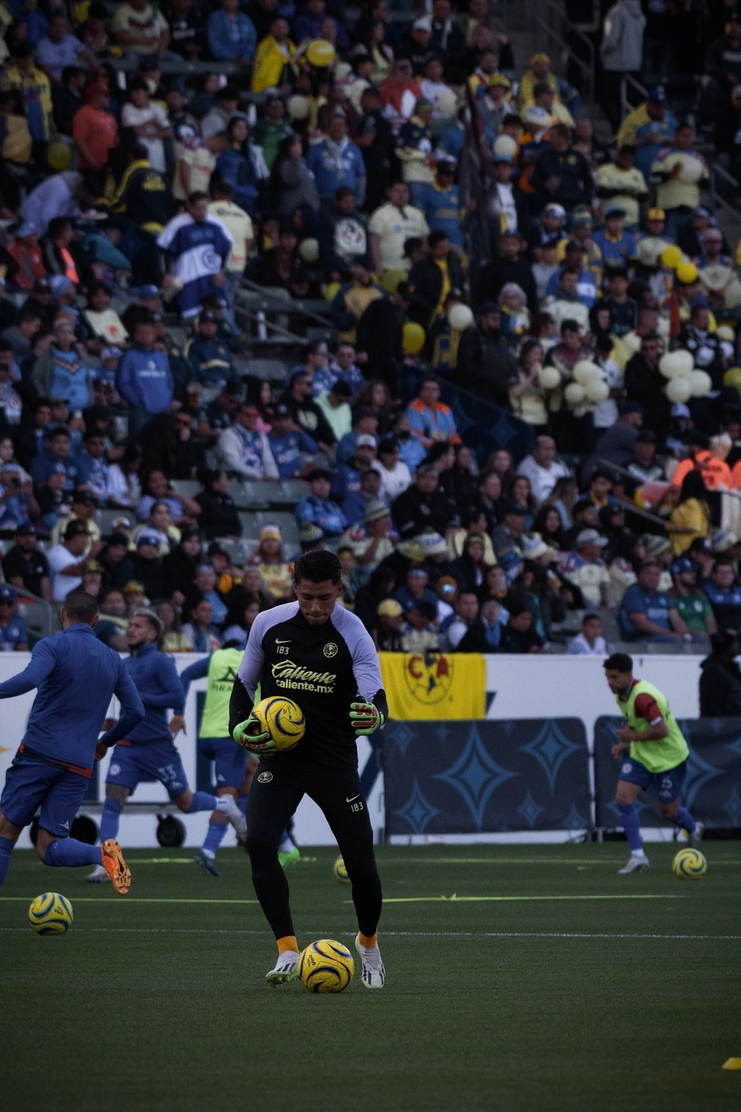
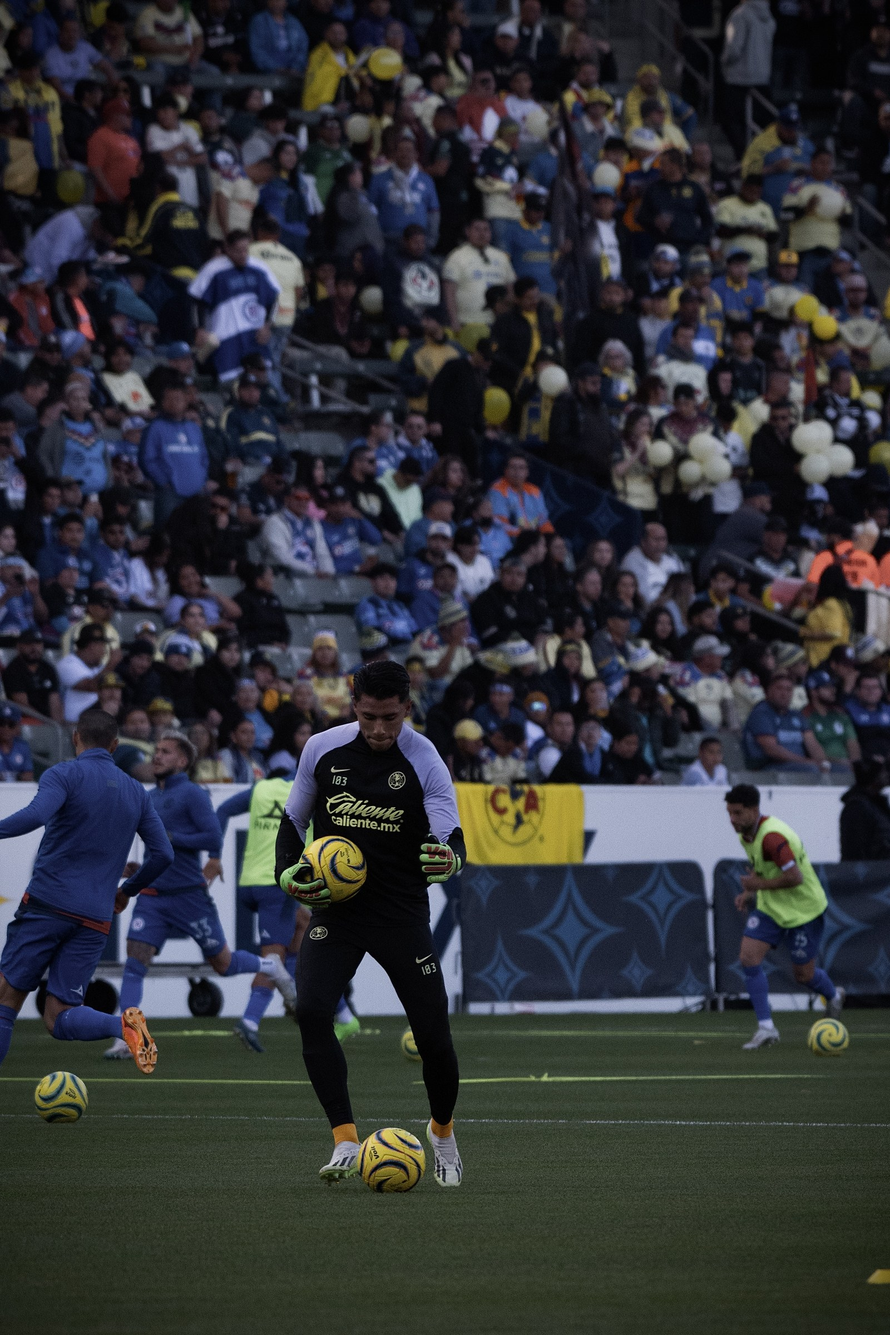
Subir la calidad de las fotos: versiones en alta resolución
Encontré los originales sin comprimir de varias fotos ya usadas
(los archivos que WhatsApp comprime al mandarlos por chat) y
reemplacé las versiones borrosas por esas:

- Fondo del hero: ahora es una foto nítida de un portero en acción
  (antes era una captura de video de baja resolución, se veía
  pixeleada al estirarse a todo el ancho de pantalla).
- Equipo de porteros, calentamiento y concentración: mismas fotos
  pero en su resolución real (2-3x más nítidas).
- Eduardo ahora tiene una foto de acción en alta resolución en vez
  de la versión chica.
- Nueva foto grande en la galería (retrato de cuerpo completo).
- Galería rediseñada: menos columnas, tarjetas más grandes, más
  espacio entre fotos — se ve más "premium" y menos amontonado.
- Avatares de entrenadores más grandes (64px en vez de 52px).
- Se sacaron las 2 fotos de menor resolución que ya no hacían falta.

diff --git a/index.html b/index.html
@@ -40,11 +40,12 @@
   .hero{position:relative;overflow:hidden;padding:88px 0 72px;}
   .hero-photo{
     position:absolute;inset:0;z-index:0;
-    background-image:linear-gradient(180deg,rgba(11,12,12,.55) 0%,rgba(11,12,12,.82) 62%,var(--bg) 100%),
-      radial-gradient(60% 60% at 78% 12%,rgba(124,194,107,.14),transparent 70%),
-      url("assets/img/gallery/atajada-1.jpg");
-    background-size:cover;background-position:center 18%;
-    filter:grayscale(.55) contrast(1.05);
+    background-image:linear-gradient(100deg,rgba(11,12,12,.96) 0%,rgba(11,12,12,.86) 30%,rgba(11,12,12,.45) 58%,rgba(11,12,12,.7) 100%),
+      linear-gradient(0deg,var(--bg) 0%,transparent 22%),
+      radial-gradient(50% 50% at 82% 15%,rgba(124,194,107,.16),transparent 70%),
+      url("assets/img/gallery/hero-bg.jpg");
+    background-size:cover;background-position:center 22%;
+    filter:grayscale(.4) contrast(1.08) saturate(.9);
   }
   .hero-grid{position:relative;z-index:1;display:grid;gap:40px;grid-template-columns:1.1fr .8fr;align-items:center;}
   @media (max-width:940px){.hero-grid{grid-template-columns:1fr;}}
@@ -81,7 +82,7 @@
   .coach-card{display:flex;flex-direction:column;gap:14px;}
   .coach-top{display:flex;align-items:center;gap:14px;}
   .avatar{
-    width:52px;height:52px;border-radius:50%;flex:none;
+    width:64px;height:64px;border-radius:50%;flex:none;
     background:var(--accent-soft);color:var(--accent-2);
     display:grid;place-items:center;font-family:var(--display);font-weight:700;font-size:.95rem;
     border:1px solid var(--accent-line);
@@ -91,31 +92,32 @@
   .coach-card p{font-size:.88rem;color:var(--ink-soft);}
   .coach-handle{font-size:.78rem;color:var(--muted);font-family:var(--display);letter-spacing:.03em;}
   a.coach-handle:hover{color:var(--accent-2);}
-  .avatar.avatar-photo{padding:0;overflow:hidden;border:1px solid var(--accent-line);}
-  .avatar.avatar-photo img{width:100%;height:100%;object-fit:cover;filter:grayscale(.35);}
+  .avatar.avatar-photo{padding:0;overflow:hidden;border:1px solid var(--accent-line);box-shadow:0 6px 18px rgba(0,0,0,.35);}
+  .avatar.avatar-photo img{width:100%;height:100%;object-fit:cover;filter:grayscale(.3) contrast(1.05);}
 
   .gallery-grid{
-    display:grid;gap:12px;grid-template-columns:repeat(4,1fr);grid-auto-rows:150px;
+    display:grid;gap:16px;grid-template-columns:repeat(3,1fr);grid-auto-rows:190px;
     grid-auto-flow:dense;
   }
   .gallery-grid a{
     position:relative;display:block;border-radius:var(--radius);overflow:hidden;
     border:1px solid var(--line-soft);
+    box-shadow:0 14px 30px -14px rgba(0,0,0,.55);
   }
   .gallery-grid img{
     width:100%;height:100%;object-fit:cover;display:block;
-    filter:grayscale(1) contrast(1.05);
-    transition:filter .35s ease,transform .5s ease;
+    filter:grayscale(.85) contrast(1.08);
+    transition:filter .4s ease,transform .6s ease;
   }
-  .gallery-grid a:hover img{filter:grayscale(0) contrast(1.05);transform:scale(1.04);}
+  .gallery-grid a:hover img{filter:grayscale(0) contrast(1.05);transform:scale(1.045);}
   .gallery-grid .tall{grid-row:span 2;}
   .gallery-grid .wide{grid-column:span 2;}
   @media (max-width:900px){
-    .gallery-grid{grid-template-columns:repeat(2,1fr);grid-auto-rows:130px;}
+    .gallery-grid{grid-template-columns:repeat(2,1fr);grid-auto-rows:160px;gap:12px;}
     .gallery-grid .wide{grid-column:span 2;}
   }
   @media (max-width:520px){
-    .gallery-grid{grid-template-columns:repeat(2,1fr);grid-auto-rows:110px;}
+    .gallery-grid{grid-template-columns:repeat(2,1fr);grid-auto-rows:130px;gap:10px;}
   }
 
   .pillars{display:grid;gap:16px;grid-template-columns:repeat(4,1fr);}
@@ -326,7 +328,7 @@
         </div>
         <div class="card coach-card">
           <div class="coach-top">
-            <div class="avatar avatar-photo"><img src="assets/img/gallery/entreno-bn.jpg" alt="Eduardo Millán" /></div>
+            <div class="avatar avatar-photo"><img src="assets/img/gallery/eduardo-accion.jpg" alt="Eduardo Millán" style="object-position:50% 15%;" /></div>
             <div>
               <div class="coach-name">Eduardo Millán</div>
               <div class="coach-role">Entrenador de porteros · Toluca</div>
@@ -395,28 +397,28 @@
       </div>
       <div class="gallery-grid">
         <a class="wide" href="assets/img/gallery/campeones.jpg" target="_blank" rel="noopener">
-          <img src="assets/img/gallery/campeones.jpg" alt="Festejo de campeonato" loading="lazy" />
+          <img src="assets/img/gallery/campeones.jpg" alt="Festejo de campeonato" loading="lazy" style="object-position:center 30%;" />
+        </a>
+        <a class="tall" href="assets/img/gallery/retrato-grande.jpg" target="_blank" rel="noopener">
+          <img src="assets/img/gallery/retrato-grande.jpg" alt="Retrato de portero" loading="lazy" style="object-position:center 15%;" />
         </a>
         <a href="assets/img/gallery/familia.jpg" target="_blank" rel="noopener">
           <img src="assets/img/gallery/familia.jpg" alt="Momento en familia en la cancha" loading="lazy" />
-        </a>
-        <a class="wide" href="assets/img/gallery/seleccion.jpg" target="_blank" rel="noopener">
-          <img src="assets/img/gallery/seleccion.jpg" alt="Entrenamiento de porteros de selección" loading="lazy" />
-        </a>
-        <a href="assets/img/gallery/retrato.jpg" target="_blank" rel="noopener">
-          <img src="assets/img/gallery/retrato.jpg" alt="Retrato de portero" loading="lazy" />
         </a>
         <a class="wide" href="assets/img/gallery/equipo-porteros.jpg" target="_blank" rel="noopener">
           <img src="assets/img/gallery/equipo-porteros.jpg" alt="Grupo de entrenadores de porteros" loading="lazy" />
         </a>
         <a class="tall" href="assets/img/gallery/calentamiento.jpg" target="_blank" rel="noopener">
-          <img src="assets/img/gallery/calentamiento.jpg" alt="Calentamiento antes del partido" loading="lazy" />
+          <img src="assets/img/gallery/calentamiento.jpg" alt="Calentamiento antes del partido" loading="lazy" style="object-position:center 25%;" />
         </a>
-        <a href="assets/img/gallery/concentracion.jpg" target="_blank" rel="noopener">
+        <a class="wide" href="assets/img/gallery/concentracion.jpg" target="_blank" rel="noopener">
           <img src="assets/img/gallery/concentracion.jpg" alt="Concentración del equipo" loading="lazy" />
         </a>
-        <a href="assets/img/gallery/entreno-bn.jpg" target="_blank" rel="noopener">
-          <img src="assets/img/gallery/entreno-bn.jpg" alt="Entrenamiento de portero" loading="lazy" />
+        <a href="assets/img/gallery/seleccion.jpg" target="_blank" rel="noopener">
+          <img src="assets/img/gallery/seleccion.jpg" alt="Entrenamiento de porteros de selección" loading="lazy" />
+        </a>
+        <a href="assets/img/gallery/eduardo-accion.jpg" target="_blank" rel="noopener">
+          <img src="assets/img/gallery/eduardo-accion.jpg" alt="Entrenamiento de portero" loading="lazy" style="object-position:center 15%;" />
         </a>
       </div>
     </div>
